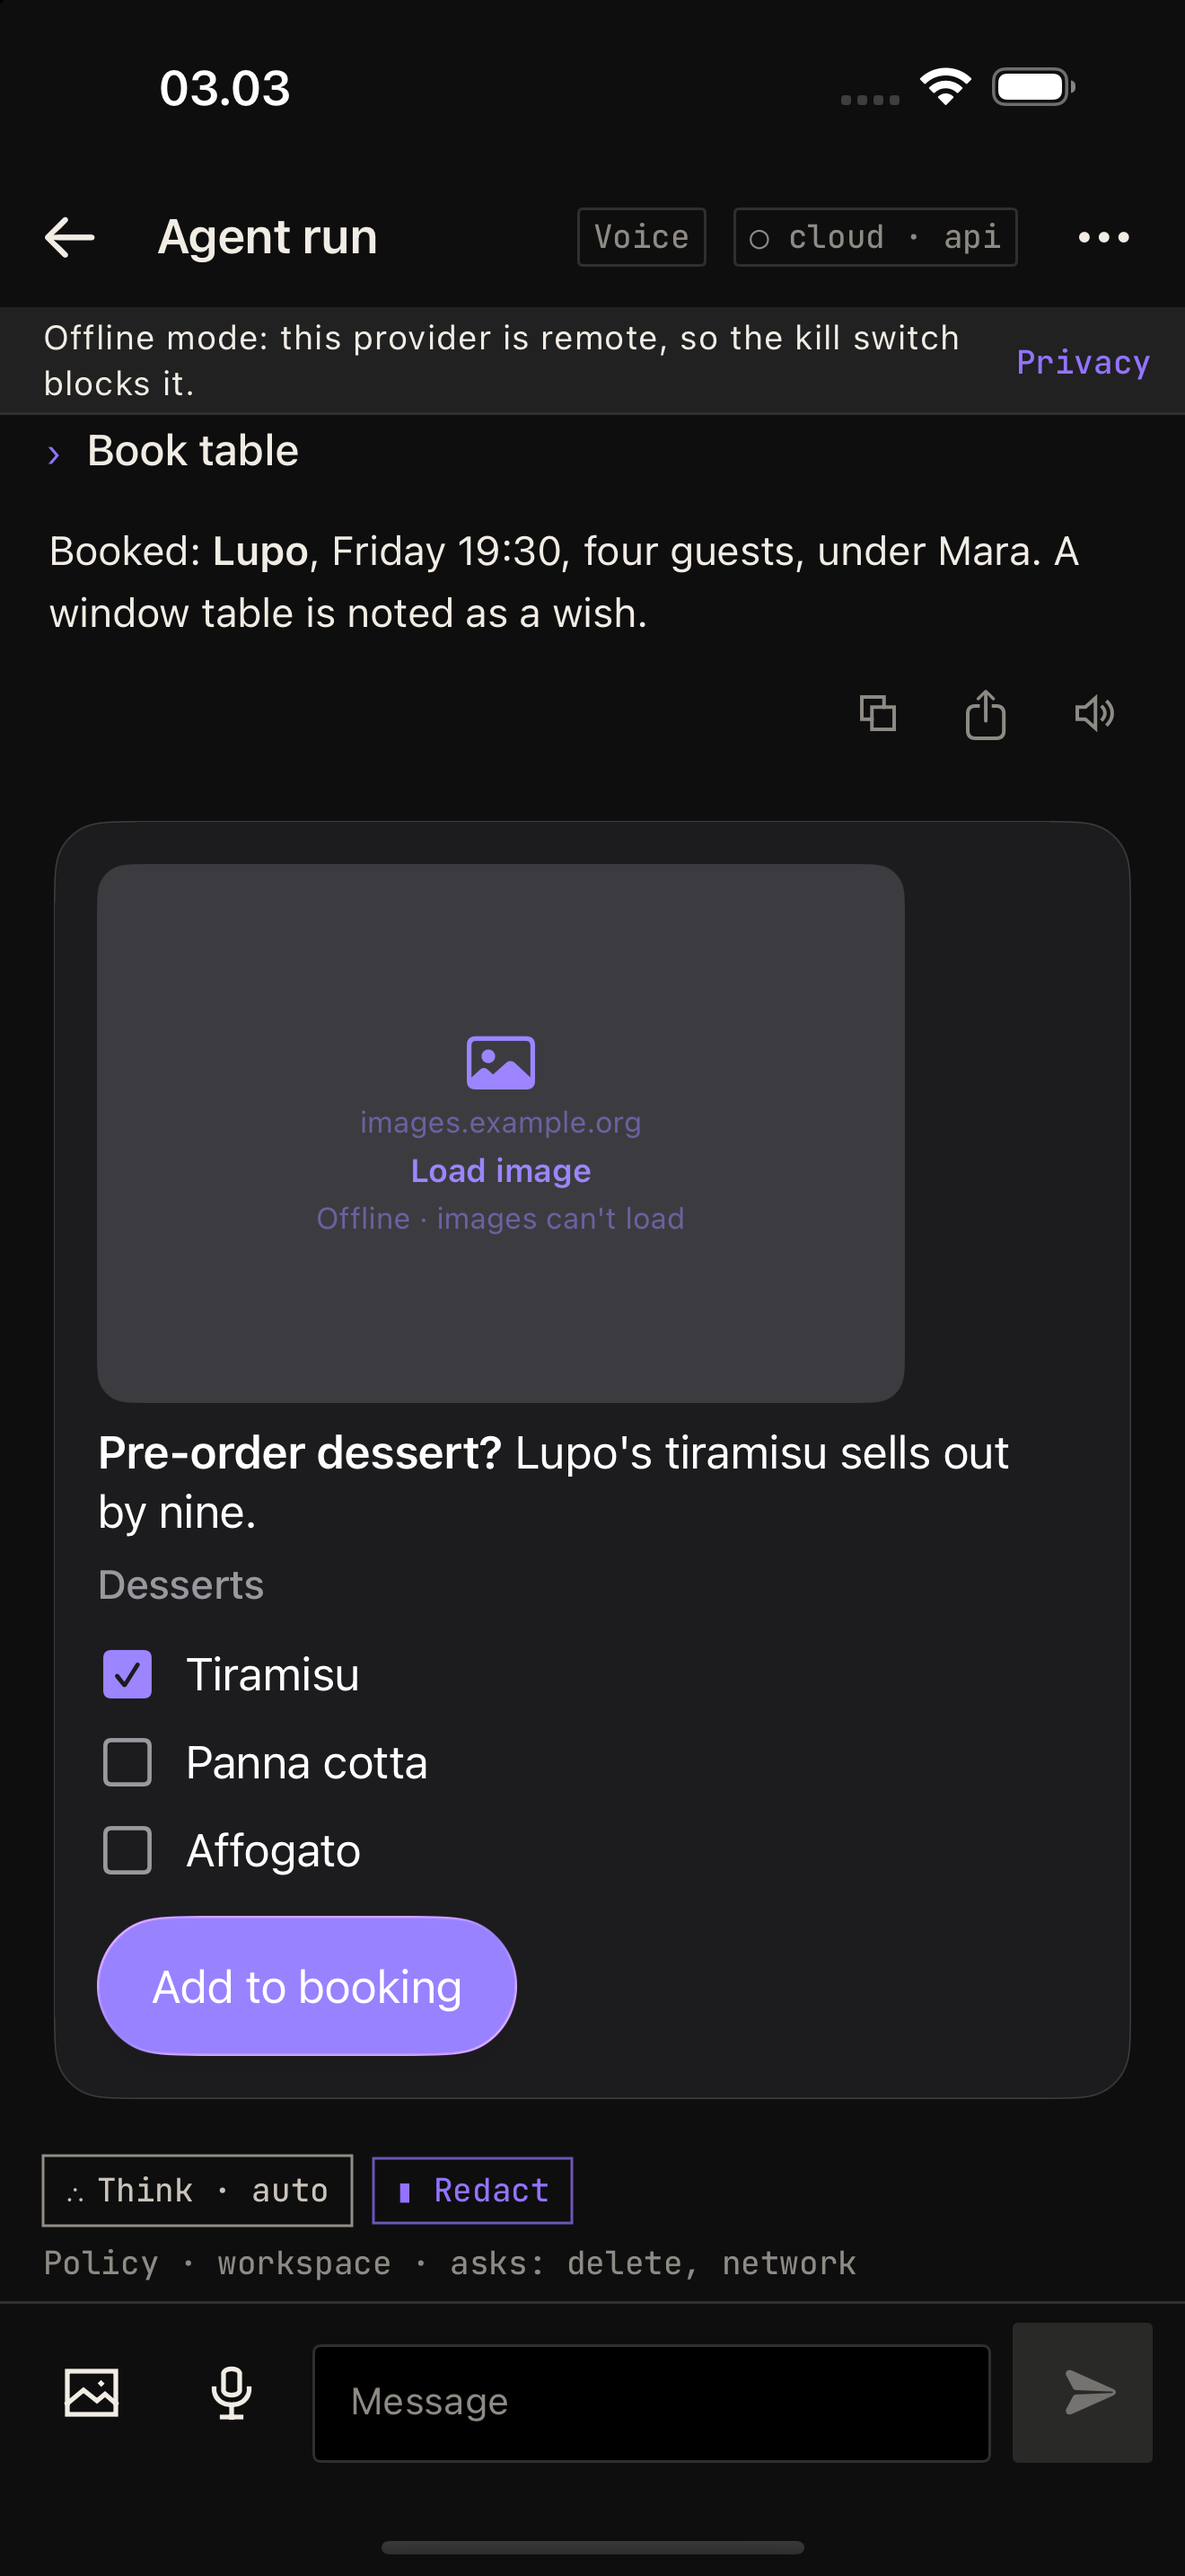
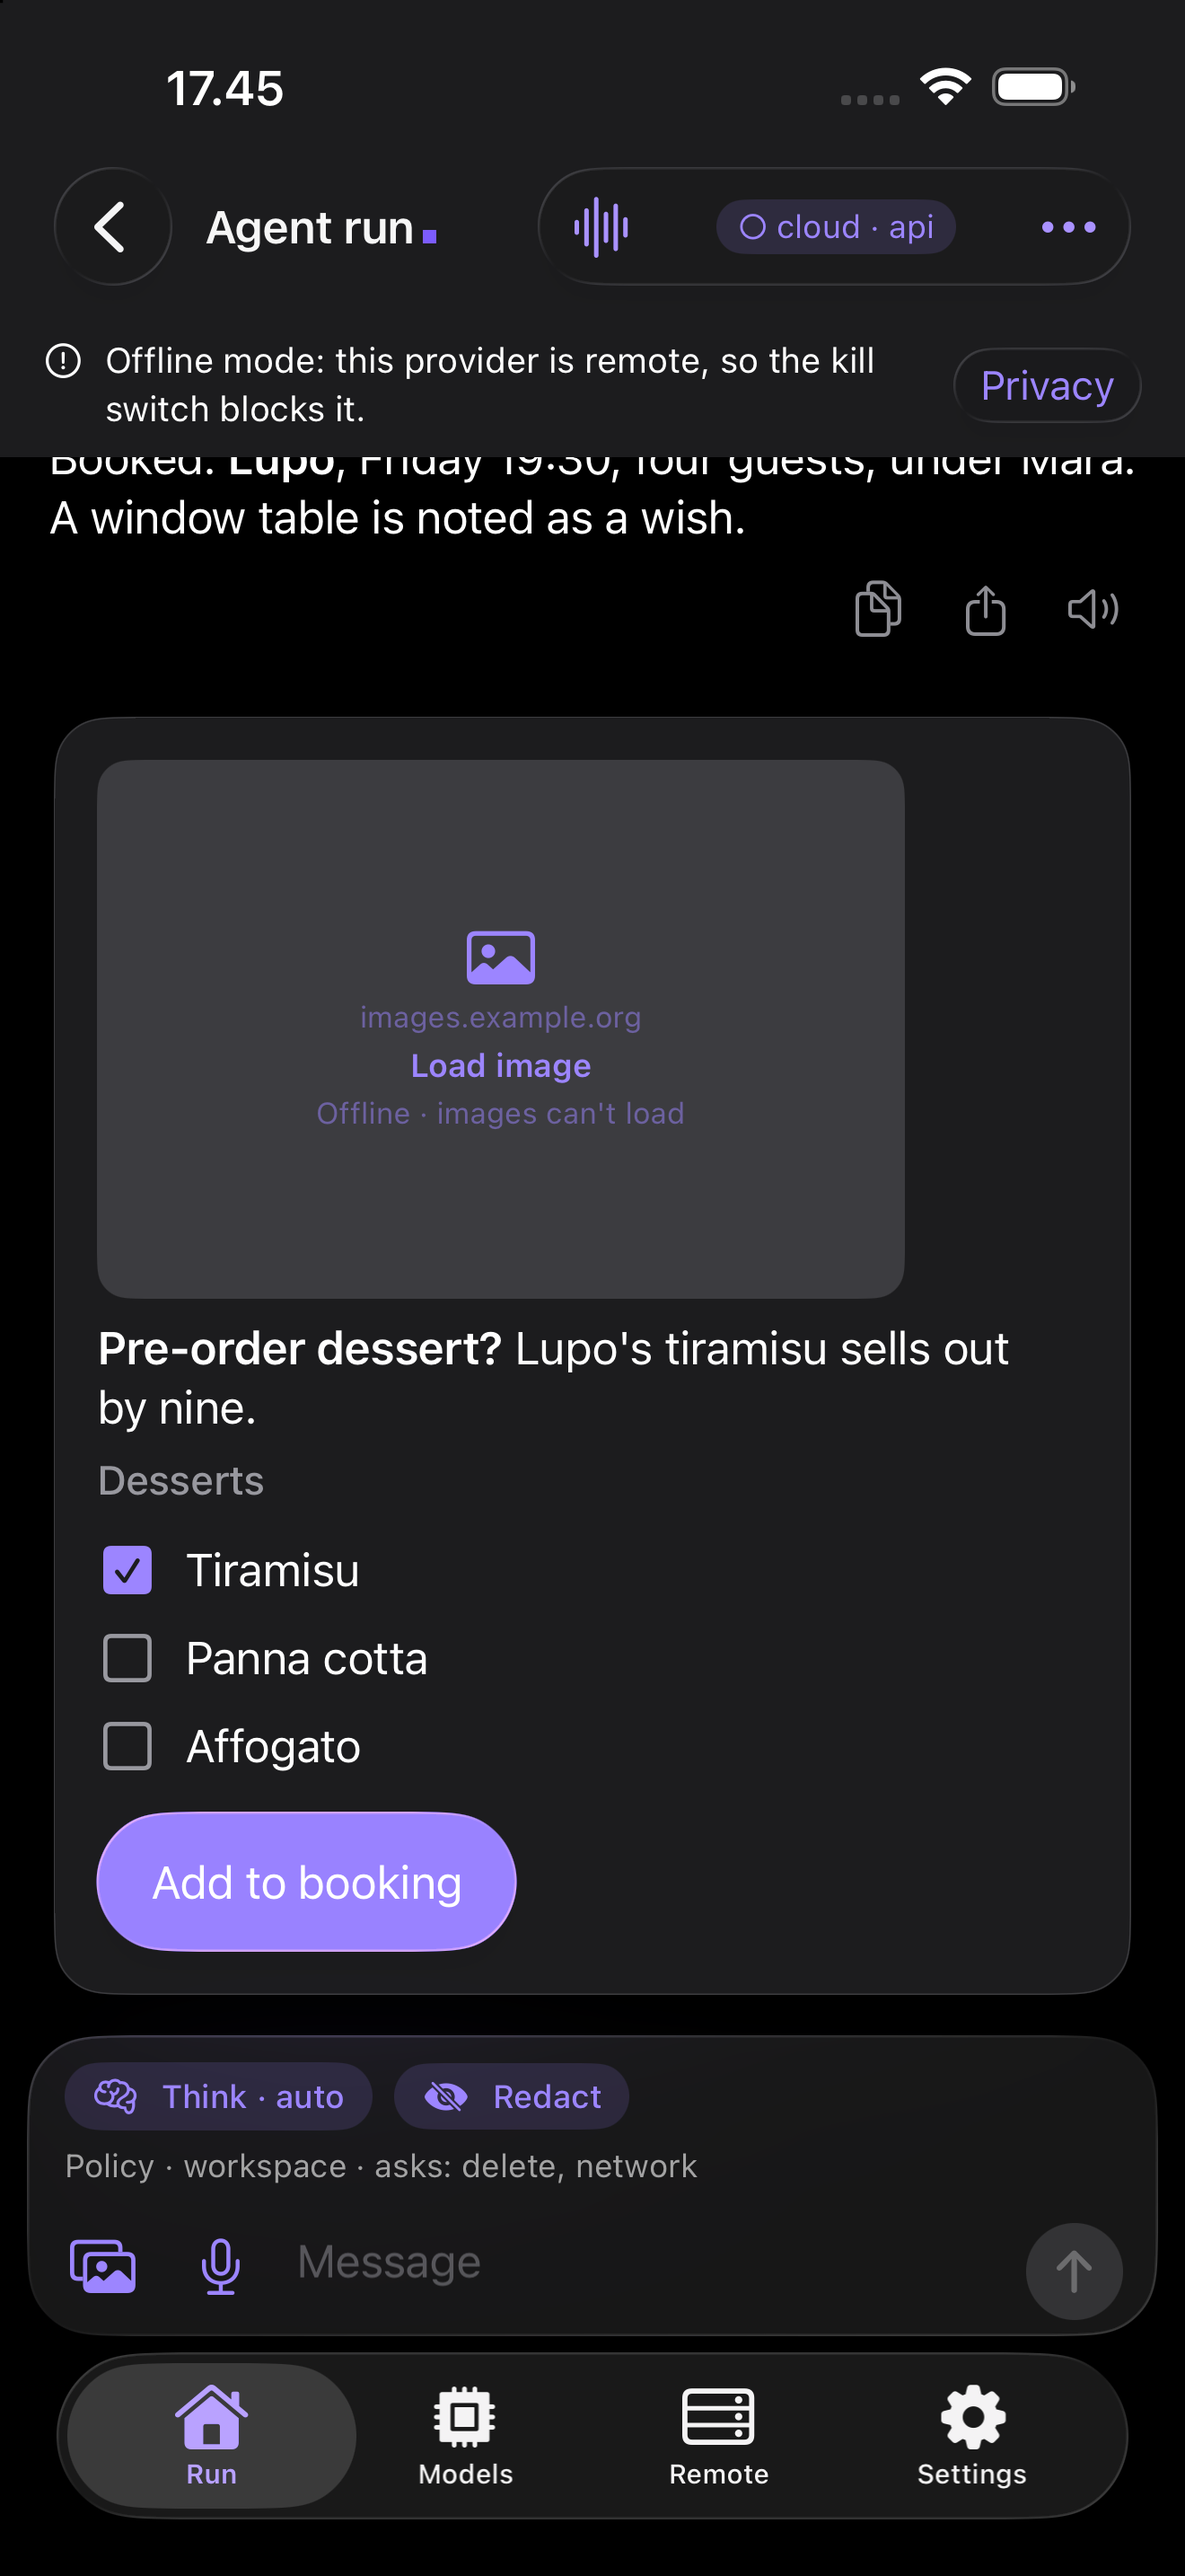
A2UI on the native kits: the app's tint, NativeKit glass buttons, a dimmed locked field
iOS: the renderer inherits the app's tint (Color.brandPurple) instead of forcing its own
a2uiBrand colour, buttons and chips use NativeKit's glassProminentButton/glassButton, and a sent
form's text field reads as disabled (secondary text on a fill, no border). The preview drops
the note about the riso shell. Android: a Robolectric snapshot of the chat screen with a sent
and an open generated form, light and dark. The iOS A2UI screenshots are retaken.

diff --git a/feature/chat/src/test/kotlin/dev/wckdboy/autobot/feature/chat/conversation/ChatA2uiSnapshotTest.kt b/feature/chat/src/test/kotlin/dev/wckdboy/autobot/feature/chat/conversation/ChatA2uiSnapshotTest.kt
@@ -1,0 +1,86 @@
+package dev.wckdboy.autobot.feature.chat.conversation
+
+import android.graphics.Bitmap
+import android.graphics.Canvas
+import android.os.Looper
+import androidx.activity.ComponentActivity
+import androidx.activity.compose.setContent
+import androidx.compose.runtime.CompositionLocalProvider
+import dev.wckdboy.autobot.core.a2ui.A2uiChatState
+import dev.wckdboy.autobot.core.designsystem.motion.InkMotion
+import dev.wckdboy.autobot.core.designsystem.motion.LocalInkMotion
+import dev.wckdboy.autobot.core.designsystem.theme.AutobotTheme
+import dev.wckdboy.autobot.shared.a2ui.A2uiCatalog
+import dev.wckdboy.autobot.shared.a2ui.A2uiChat
+import dev.wckdboy.autobot.shared.a2ui.A2uiSubmission
+import dev.wckdboy.autobot.shared.session.SessionItem
+import dev.wckdboy.autobot.shared.session.ToolState
+import java.io.File
+import java.lang.reflect.Proxy
+import java.time.Duration
+import org.junit.Assert.assertTrue
+import org.junit.Test
+import org.junit.runner.RunWith
+import org.robolectric.Robolectric
+import org.robolectric.RobolectricTestRunner
+import org.robolectric.Shadows.shadowOf
+import org.robolectric.annotation.Config
+import org.robolectric.annotation.GraphicsMode
+import org.robolectric.annotation.LooperMode
+
+/**
+ * The chat screen with generated UI, dark and light, to `build/a2ui-snapshots/` (for looking at,
+ * and for the PR): a booking form the user sent (locked, "Sent"), the agent's answer and a second
+ * form still open. The same conversation as iOS's demo chat (`-AutobotOpen a2ui-chat`).
+ */
+@RunWith(RobolectricTestRunner::class)
+@Config(sdk = [35], qualifiers = "w411dp-h1500dp-xhdpi")
+@GraphicsMode(GraphicsMode.Mode.NATIVE)
+@LooperMode(LooperMode.Mode.PAUSED)
+class ChatA2uiSnapshotTest {
+    private val out = File("build/a2ui-snapshots").apply { mkdirs() }
+    private val catalog = A2uiCatalog.BASIC_CATALOG_ID
+
+    private val booking = """[{"version":"v1.0","createSurface":{"surfaceId":"booking","catalogId":"$catalog","components":[{"id":"root","component":"Card","child":"col"},{"id":"col","component":"Column","children":["title","name","when","size","note","book"]},{"id":"title","component":"Text","text":"**Table at Lupo** · Friday"},{"id":"name","component":"TextField","label":"Name","value":{"@path":"/b/name"}},{"id":"when","component":"ChoicePicker","label":"Time","options":[{"label":"19:00","value":"19:00"},{"label":"19:30","value":"19:30"},{"label":"20:00","value":"20:00"}],"value":{"@path":"/b/time"},"variant":"mutuallyExclusive","displayStyle":"chips"},{"id":"size","component":"Slider","label":"Guests","value":{"@path":"/b/guests"},"min":1,"max":8},{"id":"note","component":"CheckBox","label":"Window table if possible","value":{"@path":"/b/window"}},{"id":"book","component":"Button","variant":"primary","child":"book_t","action":{"event":{"name":"bookTable","context":{"name":{"@path":"/b/name"},"time":{"@path":"/b/time"},"guests":{"@path":"/b/guests"}}}}},{"id":"book_t","component":"Text","text":"Book"}],"dataModel":{"b":{"name":"","time":[],"guests":2,"window":false}}}}]"""
+
+    private val dessert = """[{"version":"v1.0","createSurface":{"surfaceId":"dessert","catalogId":"$catalog","components":[{"id":"root","component":"Card","child":"col"},{"id":"col","component":"Column","children":["q","pick","when","go"]},{"id":"q","component":"Text","text":"**Pre-order dessert?** Lupo's tiramisu sells out by nine."},{"id":"pick","component":"ChoicePicker","label":"Desserts","options":[{"label":"Tiramisu","value":"tiramisu"},{"label":"Panna cotta","value":"panna"},{"label":"Affogato","value":"affogato"}],"value":{"@path":"/d"},"variant":"multipleSelection","displayStyle":"checkbox"},{"id":"when","component":"TextField","label":"Note for the kitchen","value":{"@path":"/note"}},{"id":"go","component":"Button","variant":"primary","child":"go_t","action":{"event":{"name":"preorderDessert","context":{"picked":{"@path":"/d"},"note":{"@path":"/note"}}}}},{"id":"go_t","component":"Text","text":"Add to booking"}],"dataModel":{"d":["tiramisu"],"note":""}}}]"""
+
+    private val items: List<SessionItem> = listOf(
+        SessionItem.User("u1", "Book a table for dinner on Friday, somewhere near the office."),
+        SessionItem.Tool("t1", "c1", A2uiChat.TOOL, "surface booking", ToolState.OK, "Shown", null, emptyList(), turn = 1, a2ui = booking),
+        SessionItem.User(
+            "u2", "Book table",
+            a2ui = A2uiSubmission("booking", "bookTable", "Book table", """{"b":{"name":"Mara","time":["19:30"],"guests":4,"window":true}}"""),
+        ),
+        SessionItem.Assistant("a2", "Booked: **Lupo**, Friday 19:30, four guests, under Mara. A window table is noted as a wish.", null, false, null, "deepseek-chat"),
+        SessionItem.Tool("t2", "c2", A2uiChat.TOOL, "surface dessert", ToolState.OK, "Shown", null, emptyList(), turn = 2, a2ui = dessert),
+    )
+
+    @Test
+    fun rendersAChatWithAGeneratedForm() {
+        val activity = Robolectric.buildActivity(ComponentActivity::class.java).setup().get()
+        for (dark in listOf(false, true)) {
+            val a2ui = A2uiChatState { items }
+            val actions = Proxy.newProxyInstance(ChatActions::class.java.classLoader, arrayOf(ChatActions::class.java)) { _, m, _ ->
+                when (m.name) {
+                    "getDraft" -> ""
+                    "getA2ui" -> a2ui
+                    else -> if (m.returnType == Boolean::class.javaPrimitiveType) false else null
+                }
+            } as ChatActions
+            activity.setContent {
+                AutobotTheme(darkTheme = dark) {
+                    CompositionLocalProvider(LocalInkMotion provides InkMotion(reduced = true)) {
+                        ChatScreen(ChatUiState(loaded = true, items = items), actions, onBack = {}, onOpenPrivacyCenter = {}, onOpenProviders = {}, onOpenGallery = {})
+                    }
+                }
+            }
+            shadowOf(Looper.getMainLooper()).idleFor(Duration.ofMillis(800))
+            val view = activity.window.decorView
+            val bitmap = Bitmap.createBitmap(view.width, view.height, Bitmap.Config.ARGB_8888)
+            view.draw(Canvas(bitmap))
+            File(out, "chat-a2ui-${if (dark) "dark" else "light"}.png").outputStream().use { bitmap.compress(Bitmap.CompressFormat.PNG, 100, it) }
+            assertTrue(bitmap.width > 0)
+        }
+    }
+}

diff --git a/ios/App/A2UI/A2uiComponents.swift b/ios/App/A2UI/A2uiComponents.swift
@@ -373,15 +373,13 @@ struct A2uiButtonView: View {
 }
 
 extension View {
-    /// Button variants: primary → glass prominent (brand tint), default → glass, borderless → link-like.
+    /// Button variants on the app's kit (NativeKit): primary → glass prominent (the tint),
+    /// default → glass, borderless → link-like.
     @ViewBuilder func a2uiButtonStyle(_ variant: String) -> some View {
         switch variant {
-        case "primary":
-            if #available(iOS 26, *) { buttonStyle(.glassProminent).controlSize(.large) } else { buttonStyle(.borderedProminent).controlSize(.large) }
-        case "borderless":
-            buttonStyle(.borderless)
-        default:
-            if #available(iOS 26, *) { buttonStyle(.glass).controlSize(.large) } else { buttonStyle(.bordered).controlSize(.large) }
+        case "primary": glassProminentButton().controlSize(.large)
+        case "borderless": buttonStyle(.borderless)
+        default: glassButton().controlSize(.large)
         }
     }
 }
@@ -414,11 +412,7 @@ private struct A2uiChipLabelStyle: LabelStyle {
 
 extension View {
     @ViewBuilder func a2uiChipStyle(_ selected: Bool) -> some View {
-        if #available(iOS 26, *) {
-            if selected { buttonStyle(.glassProminent).buttonBorderShape(.capsule) } else { buttonStyle(.glass).buttonBorderShape(.capsule) }
-        } else {
-            if selected { buttonStyle(.borderedProminent).buttonBorderShape(.capsule) } else { buttonStyle(.bordered).buttonBorderShape(.capsule) }
-        }
+        if selected { glassProminentButton().buttonBorderShape(.capsule) } else { glassButton().buttonBorderShape(.capsule) }
     }
 }
 

diff --git a/ios/App/A2UI/A2uiInputs.swift b/ios/App/A2UI/A2uiInputs.swift
@@ -66,12 +66,14 @@ struct A2uiTextFieldView: View {
                     TextField(placeholder, text: text)
                 }
             }
+            // A sent (locked) form's field reads as disabled: secondary text on a fill, no border.
+            .foregroundStyle(readOnly ? AnyShapeStyle(.secondary) : AnyShapeStyle(.primary))
             .padding(.horizontal, 12)
             .padding(.vertical, 10)
-            .background(.background.secondary, in: RoundedRectangle(cornerRadius: 12, style: .continuous))
+            .background(readOnly ? AnyShapeStyle(Color(.tertiarySystemFill)) : AnyShapeStyle(.background.secondary), in: RoundedRectangle(cornerRadius: 12, style: .continuous))
             .overlay(
                 RoundedRectangle(cornerRadius: 12, style: .continuous)
-                    .strokeBorder(edited && !node.isValid ? AnyShapeStyle(.red) : AnyShapeStyle(.separator), lineWidth: edited && !node.isValid ? 1 : 0.5),
+                    .strokeBorder(edited && !node.isValid ? AnyShapeStyle(.red) : AnyShapeStyle(.separator), lineWidth: readOnly ? 0 : edited && !node.isValid ? 1 : 0.5),
             )
             .disabled(!bound)
             .accessibilityLabel(label ?? placeholder)

diff --git a/ios/App/A2UI/A2uiChatSurfaces.swift b/ios/App/A2UI/A2uiChatSurfaces.swift
@@ -121,7 +121,7 @@ final class A2uiChatSurfaces {
  The surfaces a `show_ui` call created, drawn in place of its step row: the chat screen's call
  site. Draws nothing when the call has none alive (deleted, or the history was replaced).
 
- Accents in the brand purple; images through the app's policy-bound client and only after a tap
+ Accents in the app's tint (the brand purple); images through the app's policy-bound client and only after a tap
  (nothing loads without asking, as on Android); links ask first ([A2uiSurfaceView]); a `.send`
  action becomes the chat's next user turn, shown as its label; a sent surface is read-only with
  "Sending…" / "Sent" under it.
@@ -139,7 +139,7 @@ struct A2uiToolSurfaces: View {
         VStack(alignment: .leading, spacing: 8) {
             ForEach(chat.surfaces(itemKey), id: \.surfaceId) { model in
                 VStack(alignment: .leading, spacing: 4) {
-                    A2uiSurfaceView(model: model, tint: .a2uiBrand, onAction: act)
+                    A2uiSurfaceView(model: model, onAction: act)
                     if let note = chat.note(model.surfaceId) {
                         Text(note)
                             .font(.caption)

diff --git a/ios/Tests/A2uiRendererTests.swift b/ios/Tests/A2uiRendererTests.swift
@@ -160,7 +160,7 @@ struct A2uiRendererTests {
     }
 
     @Test func brandPurpleResolvesPerAppearance() {
-        let ui = UIColor(Color.a2uiBrand)
+        let ui = UIColor(Color.brandPurple)
         func hex(_ style: UIUserInterfaceStyle) -> String {
             var r: CGFloat = 0, g: CGFloat = 0, b: CGFloat = 0, a: CGFloat = 0
             ui.resolvedColor(with: UITraitCollection(userInterfaceStyle: style)).getRed(&r, green: &g, blue: &b, alpha: &a)
@@ -199,7 +199,7 @@ struct A2uiRendererTests {
         let dir = ProcessInfo.processInfo.environment["AUTOBOT_SNAPSHOT_DIR"]
         for (name, model) in [("contact", try contact()), ("gallery", try gallery())] {
             for style in [UIUserInterfaceStyle.light, .dark] {
-                let view = ScrollView { A2uiSurfaceView(model: model, tint: .a2uiBrand).padding(16) }
+                let view = ScrollView { A2uiSurfaceView(model: model).padding(16).tint(Color.brandPurple) }
                     .background(Color(uiColor: .systemBackground))
                 let host = UIHostingController(rootView: view)
                 let fit = host.sizeThatFits(in: CGSize(width: 440, height: CGFloat.greatestFiniteMagnitude))

diff --git a/ios/App/A2UI/A2uiSurfaceView.swift b/ios/App/A2UI/A2uiSurfaceView.swift
@@ -5,7 +5,7 @@ import UIKit
 /**
  Renders one A2UI v1.0 surface (basic catalog) with standard SwiftUI controls: Liquid Glass
  buttons on iOS 26 (bordered ones before), system text styles (Dynamic Type). Accents follow the
- environment's tint (the app shell's `.tint`); pass [tint] (e.g. `.a2uiBrand`) to force one.
+ environment's tint (the app's `Color.brandPurple`); pass [tint] to force another.
  The tree comes from [A2uiSurfaceModel]; inputs write back through the shared host and a tap
  runs the host's dispatch.
 
@@ -59,12 +59,6 @@ struct A2uiSurfaceView: View {
             Text(url.absoluteString)
         }
     }
-}
-
-extension Color {
-    /// The brand purple (#7C5CFF family): `BrandPurple` in the asset catalog, #6A4BEB on light
-    /// grounds and #9C85FF on dark ones so text and glyphs keep >= 4.5:1 contrast.
-    static let a2uiBrand = Color("BrandPurple")
 }
 
 /// Applies [tint] only when set, so the environment's tint (the app's) otherwise wins.

diff --git a/ios/App/A2UI/A2uiPreviewScreen.swift b/ios/App/A2UI/A2uiPreviewScreen.swift
@@ -30,9 +30,8 @@ struct A2uiPreviewScreen: View {
                         ForEach(Sample.allCases) { Text($0.rawValue).tag($0) }
                     }
                     .pickerStyle(.segmented)
-                    // This branch's shell still tints riso red; the preview shows the brand purple.
                     if let model = models[sample] {
-                        A2uiSurfaceView(model: model, tint: .a2uiBrand) { action in
+                        A2uiSurfaceView(model: model) { action in
                             outgoing = Self.describe(action)
                         }
                         .id(sample)
